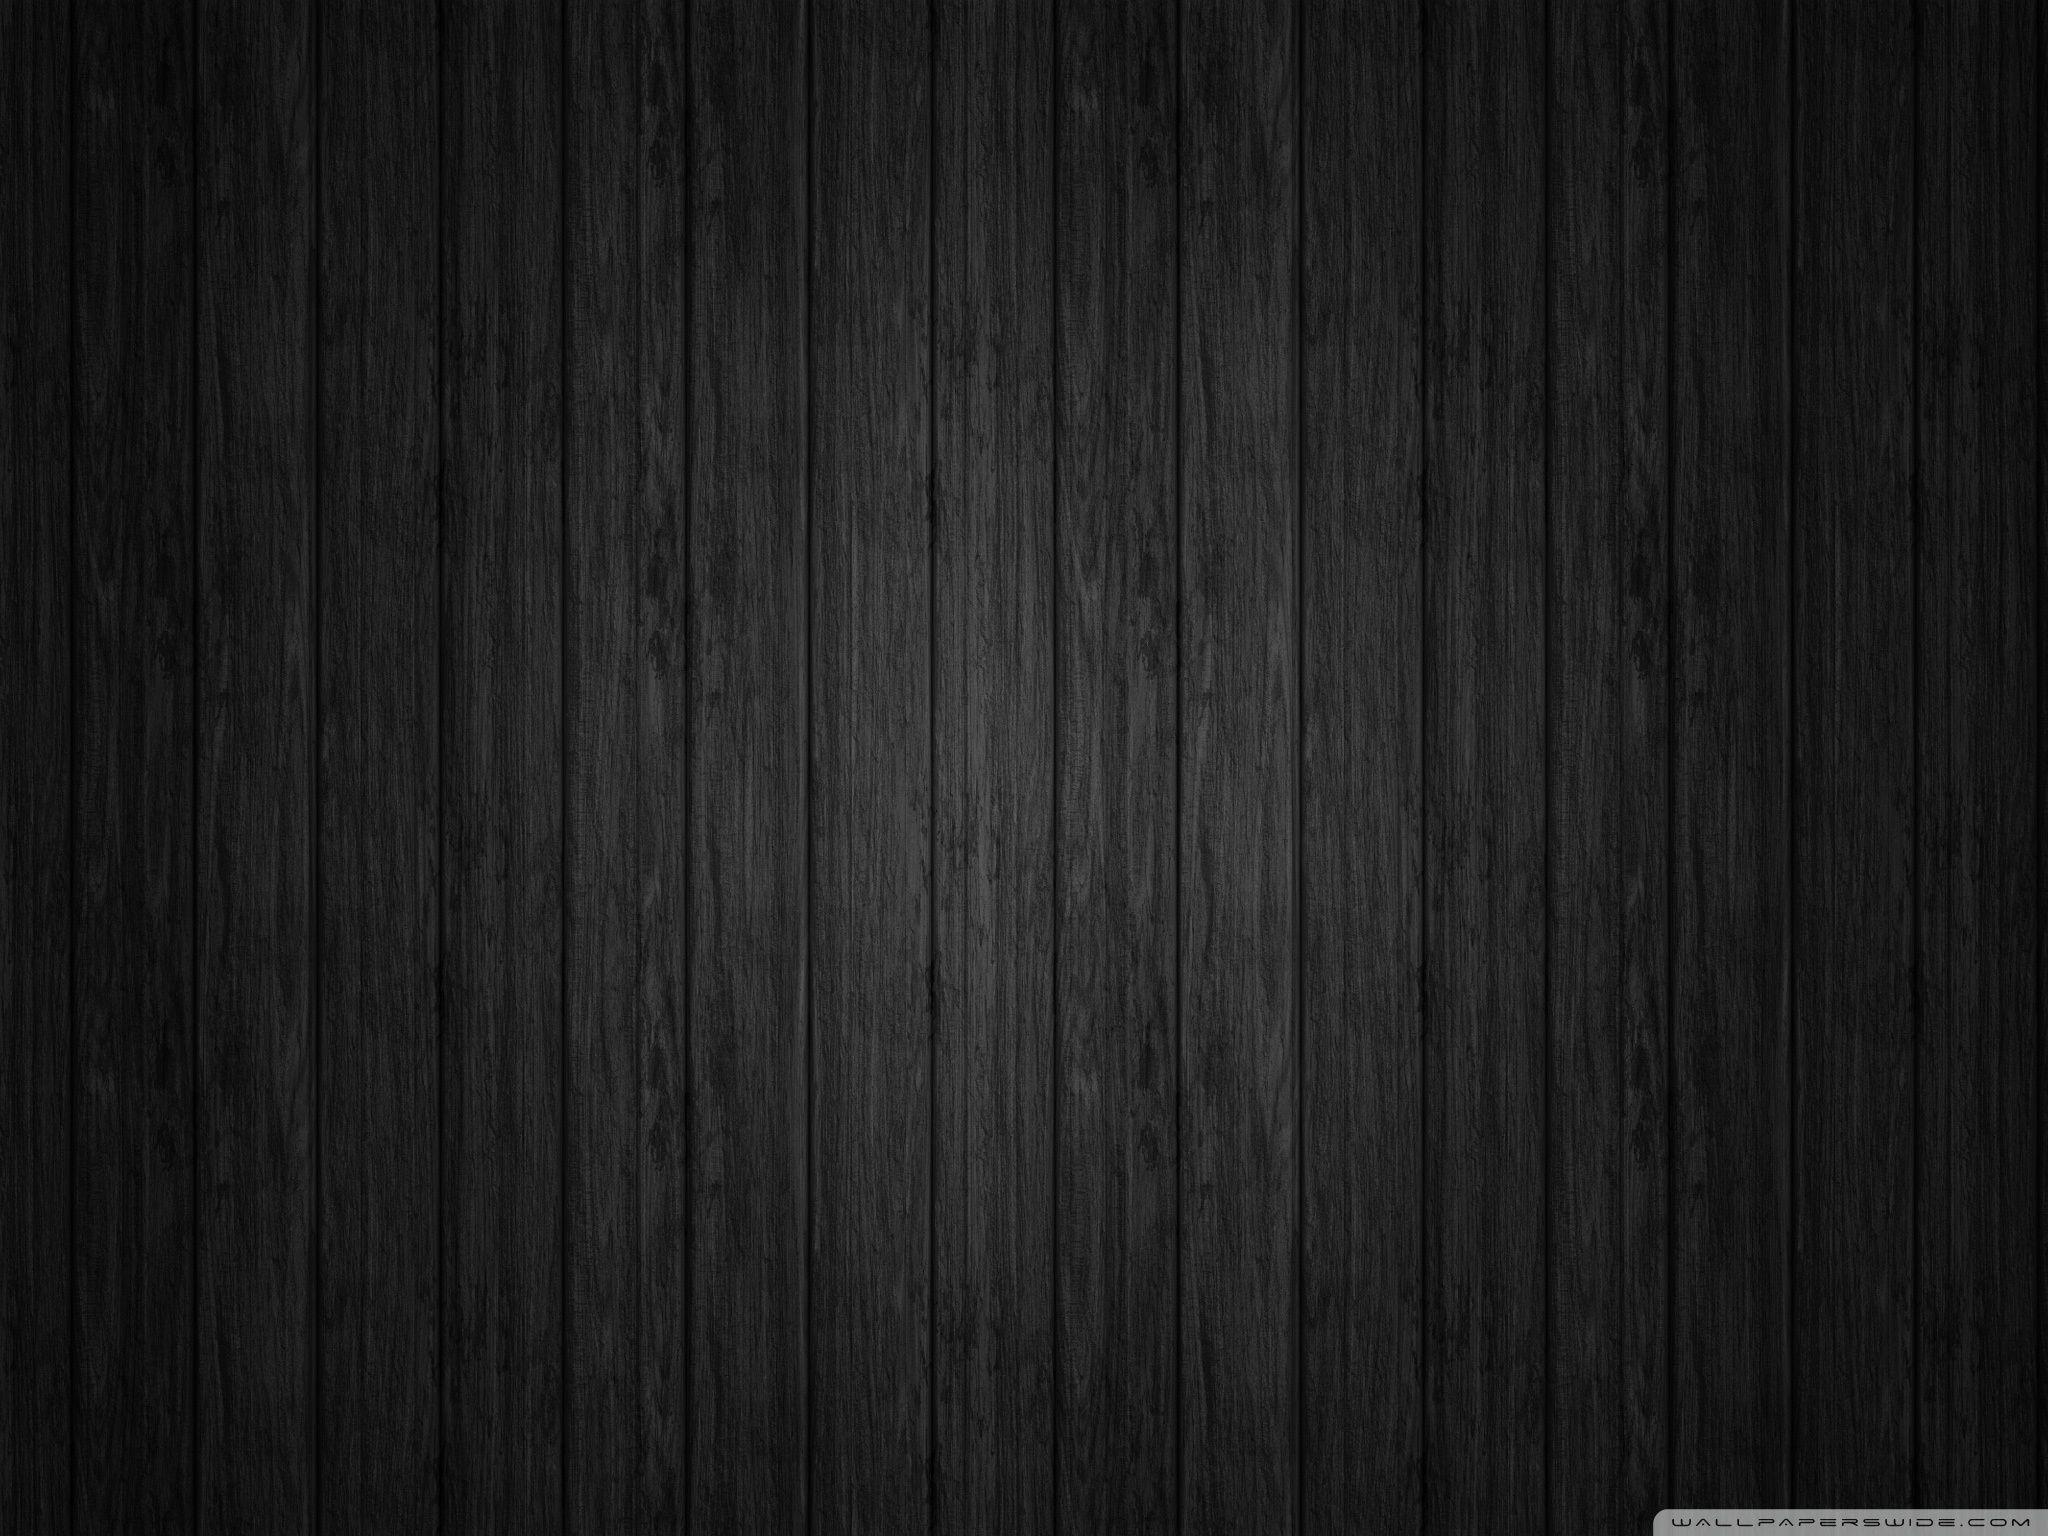
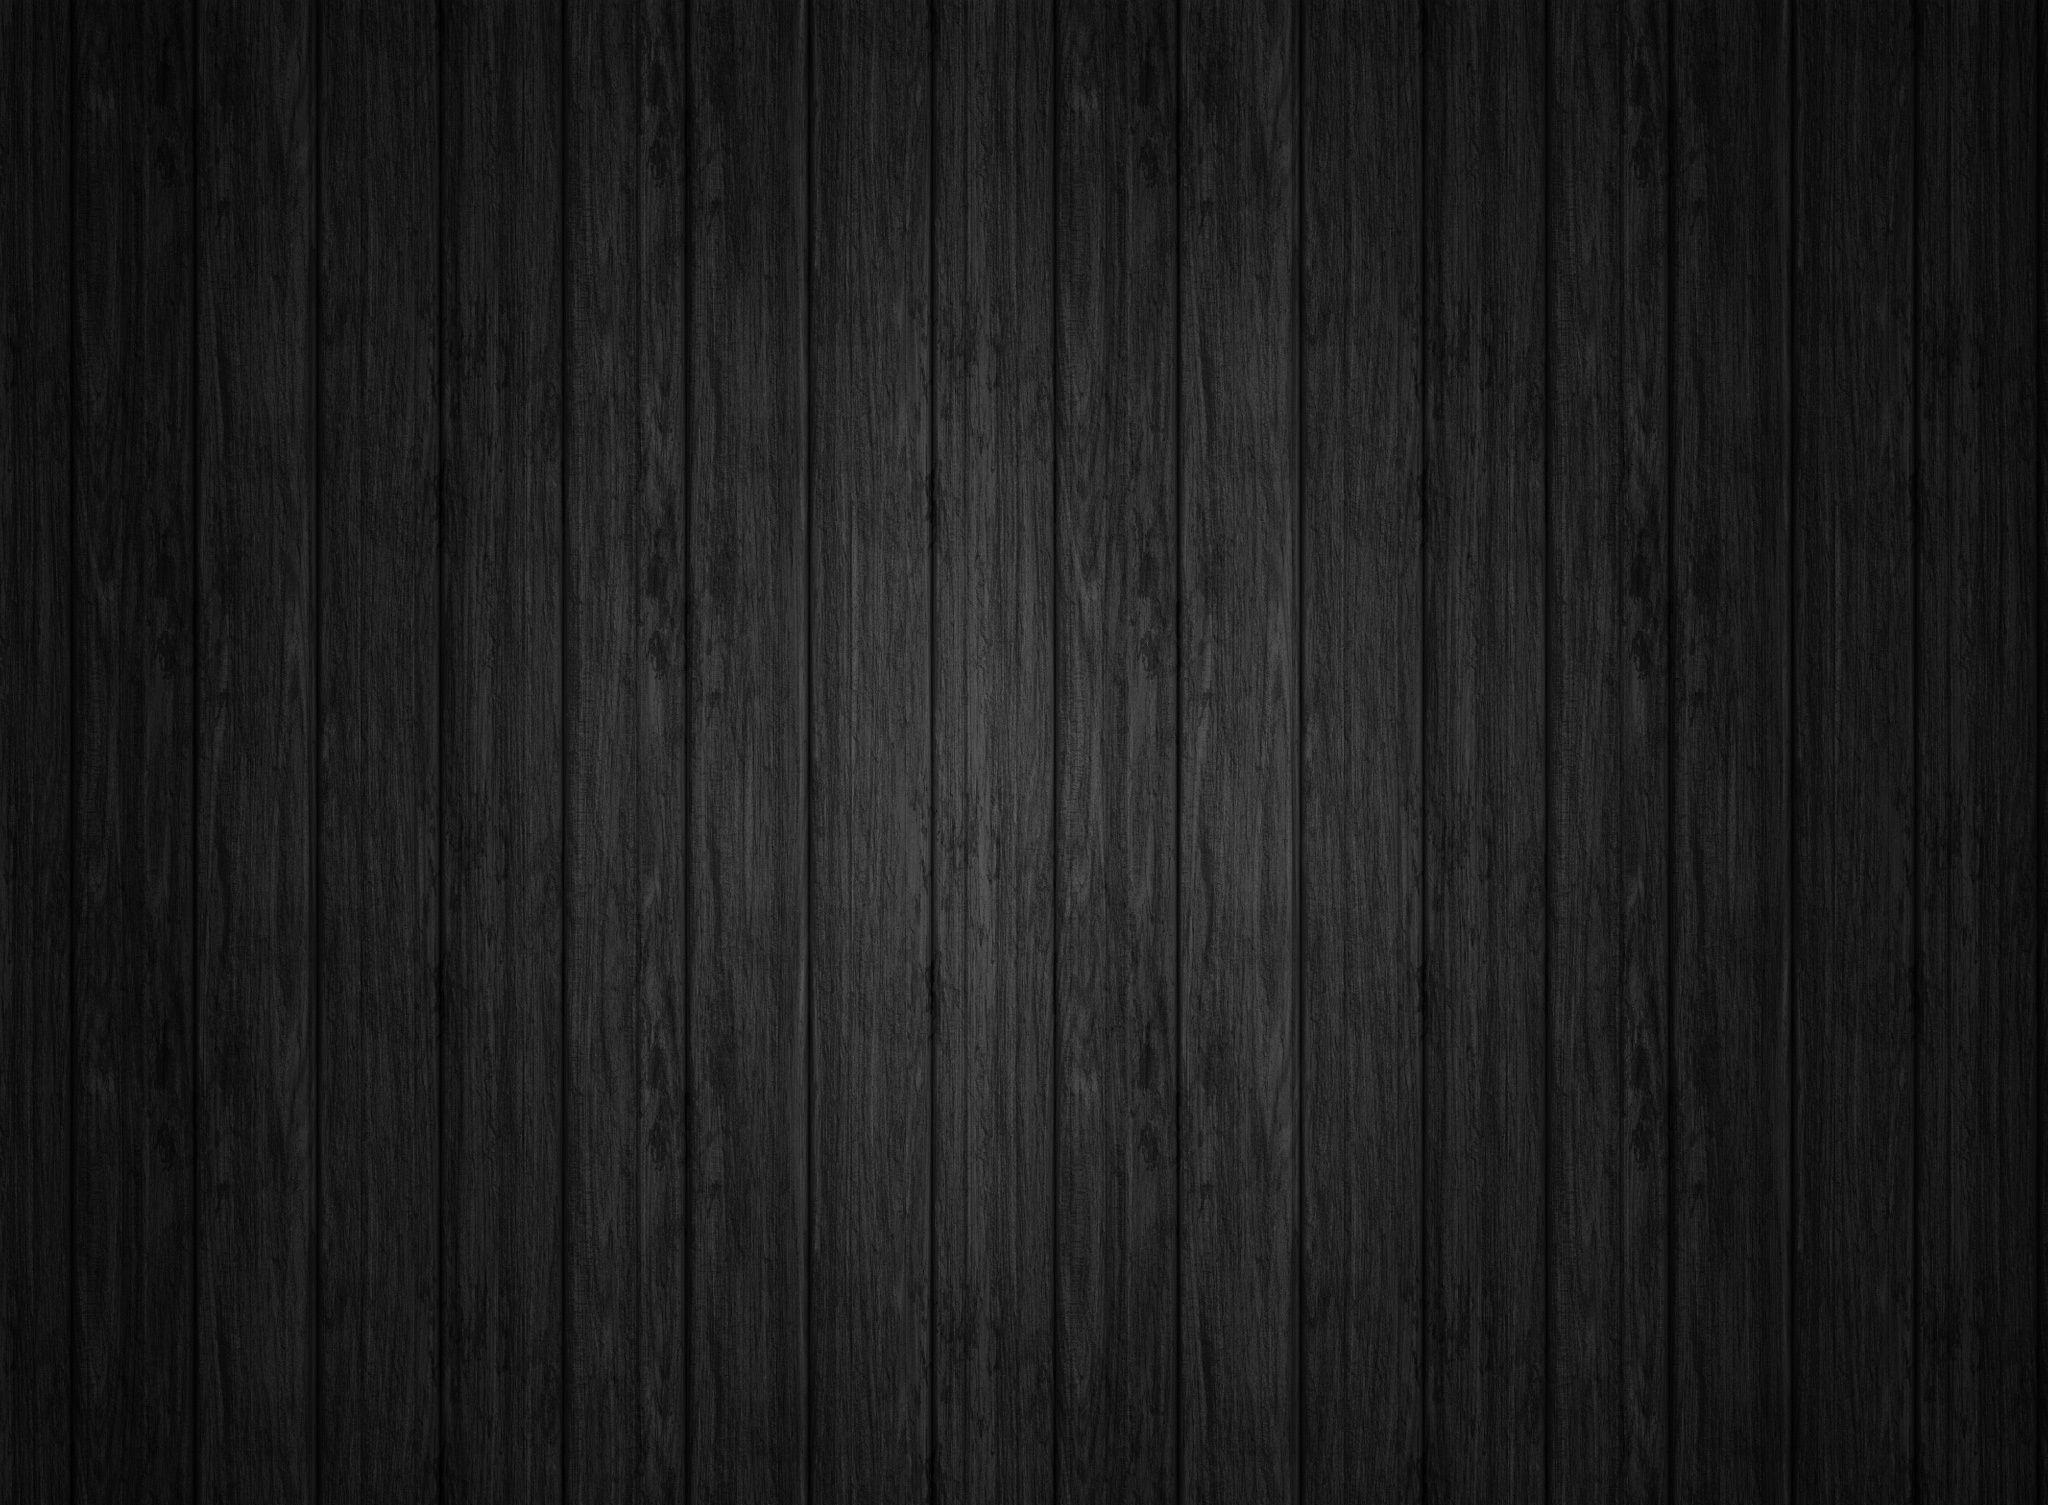
some sass updates

Changed region(s): [[0.7812, 0.9681, 1.0, 1.0]]

diff --git a/frontend/src/components/Showcase/Showcase.scss b/frontend/src/components/Showcase/Showcase.scss
@@ -1,0 +1,40 @@
+@import '../../styles/styles.scss';
+.showcase {
+  display: flex;
+  max-height: 600px;
+  background-image: url('../../images/wood.jpg');
+  background-position: center;
+  background-repeat: no-repeat;
+  background-size: cover;
+  margin-top: -6rem;
+  z-index: 10;
+
+  img {
+    max-height: 600px;
+    margin-top: -4rem;
+    object-fit: contain;
+    width: 100%;
+    height: 100%;
+  }
+  button {
+    @extend .whiteBtn;
+    color: black;
+    font-weight: 800;
+    background-color: white;
+    border-radius: 22px;
+    padding: 0.7rem 1.6rem;
+    font-size: 1rem;
+    position: absolute;
+    top: 40%;
+    left: 50%;
+    transform: translate(-50%);
+  }
+}
+
+@media (max-width: '560px') {
+  .showcase {
+    button {
+      top: 25%;
+    }
+  }
+}

diff --git a/frontend/src/screens/HomeScreen.js b/frontend/src/screens/HomeScreen.js
@@ -6,6 +6,8 @@ import Message from '../components/Message/Message'
 import { useDispatch, useSelector } from 'react-redux'
 import { listProducts } from '../actions/productActions'
 
+import './HomeScreen.scss'
+
 import PropTypes from 'prop-types'
 
 function HomeScreen() {
@@ -19,7 +21,7 @@ function HomeScreen() {
   }, [dispatch])
 
   return (
-    <div title='HomeScreen '>
+    <div title='HomeScreen' className='HomeScreen'>
       <h5 className='latest'>Últimas Novidades Ordenô</h5>
 
       {loading ? (

diff --git a/frontend/src/components/Showcase/Showcase.js b/frontend/src/components/Showcase/Showcase.js
@@ -1,0 +1,21 @@
+import React, { Component } from 'react'
+import PropTypes from 'prop-types'
+import Bag from '../../images/bag.png'
+import './Showcase.scss'
+
+export default class Showcase extends Component {
+  static propTypes = {
+    prop: PropTypes,
+  }
+
+  render() {
+    return (
+      <>
+        <div className='showcase'>
+          <button>Ver Produtos</button>
+          <img src={Bag} alt='bag.png' />
+        </div>
+      </>
+    )
+  }
+}

diff --git a/frontend/src/App.js b/frontend/src/App.js
@@ -9,11 +9,13 @@ import CartScreen from './screens/CartScreen'
 
 import { Container } from 'react-bootstrap'
 import LoginScreen from './screens/LoginScreen'
+import Showcase from './components/Showcase/Showcase'
 
 function App() {
   return (
     <Router>
       <Header />
+      <Route exact path='/' component={Showcase} />
       <main>
         <Container className='app__container'>
           <Route exact path='/login' component={LoginScreen} />

diff --git a/frontend/src/components/Header/Header.js b/frontend/src/components/Header/Header.js
@@ -1,9 +1,8 @@
-import React from 'react'
+import React, { useEffect, useRef } from 'react'
 import './Header.scss'
-import Logo from '../../images/_logo_crop.png'
 import { LinkContainer } from 'react-router-bootstrap'
 
-import { Navbar, Nav, Container, Image } from 'react-bootstrap'
+import { Navbar, Nav, Container } from 'react-bootstrap'
 
 function Header() {
   return (

diff --git a/frontend/src/App.scss b/frontend/src/App.scss
@@ -3,11 +3,8 @@
 
 main {
   min-height: 80vh;
-  max-width: 90%;
-  margin: 5rem auto;
+  margin: 0rem auto;
   padding: 1rem;
-  border-radius: 8px;
-  box-shadow: $DarkShadow;
   background-color: white;
 }
 
@@ -21,7 +18,7 @@ body {
 
 .app__container {
   background: transparent;
-  width: auto;
+  width: 100%;
 }
 
 .latest {

diff --git a/frontend/src/styles/_default.scss b/frontend/src/styles/_default.scss
@@ -34,3 +34,17 @@
     color: white;
   }
 }
+
+.whiteBtn {
+  text-decoration: none;
+  font-weight: 300;
+  width: fit-content;
+  padding: 0.2rem 1rem;
+  border-radius: 2px;
+  font-size: 12px;
+  background-color: #ffff;
+  color: black;
+  border: none;
+  box-shadow: 4px 3px 20px rgba(0, 0, 0, 0.699);
+  cursor: pointer;
+}

diff --git a/frontend/src/components/Product/Product.scss b/frontend/src/components/Product/Product.scss
@@ -3,10 +3,6 @@
 
 .product {
   background-color: transparent;
-  transition: ease 1s;
-  &:hover {
-    transform: scale(1.01);
-  }
   .product__body {
     border-bottom: 1px solid $ThirdColor;
     border-width: thin;

diff --git a/frontend/src/components/Header/Header.scss b/frontend/src/components/Header/Header.scss
@@ -13,7 +13,7 @@
   position: sticky;
   top: 0;
   z-index: 1000;
-  background-color: $Black;
+  background-color: black;
   max-height: 55px;
   .header__container {
     display: flex;

diff --git a/frontend/src/screens/HomeScreen.scss b/frontend/src/screens/HomeScreen.scss
@@ -1,0 +1,4 @@
+@import '../styles/styles.scss';
+
+.HomeScreen {
+}
